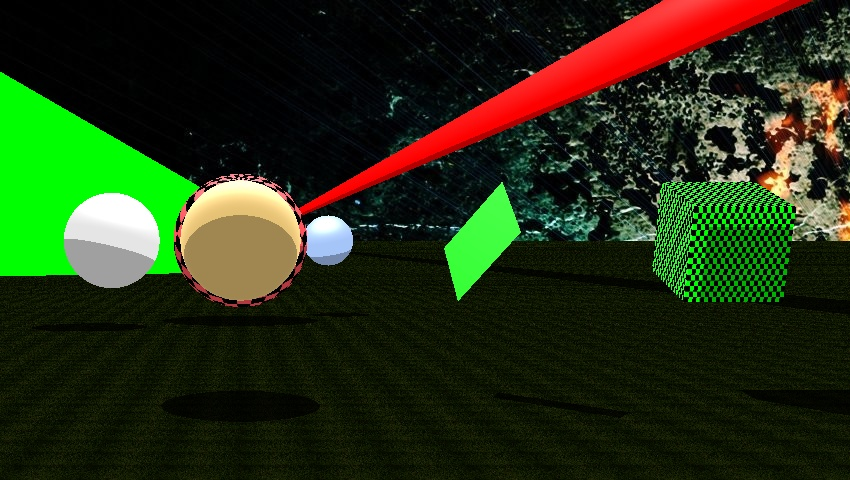
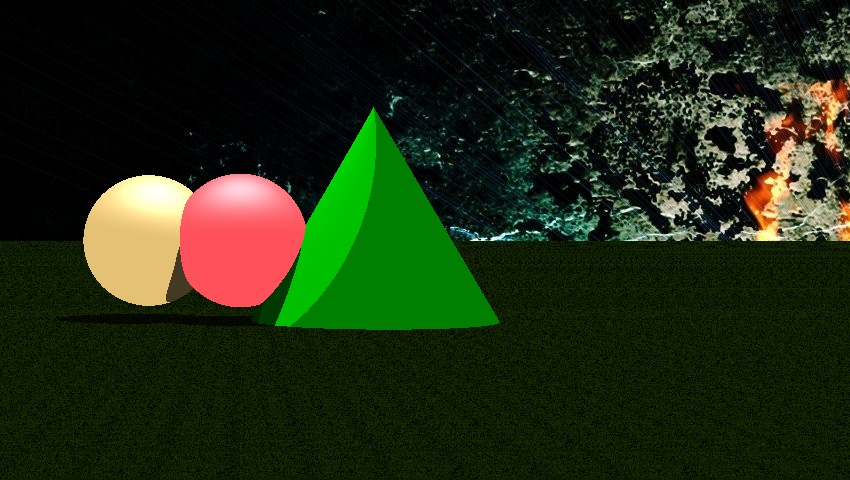
fix triangle + cone ok

diff --git a/Raytracing/Raytracing/Tracer.cpp b/Raytracing/Raytracing/Tracer.cpp
@@ -31,7 +31,7 @@ void Tracer::render(Scene scene) {
     const float gamma = 1.f / 2.2f;
 
     unsigned width = 850, height = 480;
-    //unsigned width = 1920, height = 1080;
+    //unsigned width = 2546, height = 1440;
     cv::Mat mat = cv::Mat::ones(height, width, CV_8UC3);
     Color pixelColor;
     Color* image = new Color[width * height], * pixel = image;
@@ -82,7 +82,7 @@ void Tracer::render(Scene scene) {
 
 Color Tracer::getImpactColor(Ray& ray, Object* obj, Point& impact, Scene& scene) {
 
-   Material m = obj->getMaterial(impact);
+   Material m = obj->getMaterial();
     Color amb = m.ambiant.mul(scene.getAmbiant());
 
     Color diff = Color();
@@ -94,20 +94,21 @@ Color Tracer::getImpactColor(Ray& ray, Object* obj, Point& impact, Scene& scene)
     /*Color res(normale.vector[0], normale.vector[1], normale.vector[2]);
     return res;*/
 
-    for (int i = 0; i < nbLights; i++) {
-        Ray l = scene.getLight(i).getRayToLight(impact);
-        angle = (l.vector.dot(normale.vector) / (l.vector.norm() * normale.vector.norm()));
-        Vector v = l.vector - 2 * (l.vector.dot(normale.vector) * normale.vector);
-        angle2 = (v.dot(ray.vector)) / (v.norm() * ray.vector.norm());
-        if (angle > 0) {
-            diff += m.diffuse.mul(scene.getLight(i).id) * angle;
+        for (int i = 0; i < nbLights; i++) {
+            Ray l = scene.getLight(i).getRayToLight(impact);
+            angle = (l.vector.dot(normale.vector) / (l.vector.norm() * normale.vector.norm()));
+            Vector v = l.vector - 2 * (l.vector.dot(normale.vector) * normale.vector);
+            angle2 = (v.dot(ray.vector)) / (v.norm() * ray.vector.norm());
+            if (angle > 0) {
+                diff += m.diffuse.mul(scene.getLight(i).id) * angle;
+            }
+            if (angle2 > 0) {
+                spec += m.specular.mul(scene.getLight(i).is) * pow(angle2, m.shininess);
+            }
         }
-        if (angle2 > 0) {
-            spec += m.specular.mul(scene.getLight(i).is) * pow(angle2, m.shininess);
-        }
-    }
-    Color Phong = diff + amb + spec;
-    return Phong;
+        Color Phong = diff + amb + spec;
+        return Phong;
+
     /*Material m = obj->getMaterial(impact);
     Ray normal = obj->getNormal(impact, ray.origin);
     Color c = m.ambiant.mul(scene.getAmbiant());
@@ -173,7 +174,7 @@ Color Tracer::trace(Ray ray, Scene scene, int depth)
                 float t0, t1;
                 if (obj[j]->intersect(lv, impact2, t0, t1)) {
                     if (obj[j] == object) {
-                        transmission = Color(0.7, 0.7, 0.7); 
+                        //transmission = Color(0.7, 0.7, 0.7); 
                     }
                     else {
                         transmission = Color(0.3, 0.3, 0.3);

diff --git a/Raytracing/Raytracing/Main.cpp b/Raytracing/Raytracing/Main.cpp
@@ -266,10 +266,12 @@ int main(int argc, char** argv)
     sphere.material.diffuse = Color(0.25, 0.25, 0.25);
     sphere.material.specular = Color(0.75, 0.75, 0.75);
     sphere.material.shininess = 3;
-    sphere.Texture = cv::imread("damier.jpg");
+    sphere.material.transparency = 0.5;
+    sphere.material.reflection = 1;
+    //sphere.Texture = cv::imread("Grass_01.jpg");
 
-    sphere2.translate(0, 0, 10);
-    sphere2.scale(0.8);
+    sphere2.translate(3.5, 0, 31);
+    sphere2.scale(0.4);
     sphere2.material.diffuse = Color(0.25, 0.25, 0.25);
     sphere2.material.specular = Color(0.75, 0.75, 0.75);
     sphere2.material.shininess = 3;
@@ -296,7 +298,7 @@ int main(int argc, char** argv)
 
     Cube cube(Color(0,1,0));
     cube.translate(-10, 0, 10);
-    cube.Texture = cv::imread("damier.jpg");
+    cube.Texture = cv::imread("grass_02.jpg");
     cube.rotateX(0.3);
     //cube.rotateY(30);
     //cube.rotateZ(40
@@ -316,8 +318,9 @@ int main(int argc, char** argv)
     carre.rotateY(1);
 
 
-    Cone cone(Color(0, 1, 0));
-    cone.translate(-5, 0, 100);
+    Cone cone(Color(0, 0.5, 0));
+    cone.translate(-5, 5, 30);
+    cone.rotateZ(1.5708);
     cone.rotateZ(1.5708);
     //cone.rotateY(-1.5708);
     cube.material.diffuse = Color(0.25, 0.25, 0.25);
@@ -340,19 +343,19 @@ int main(int argc, char** argv)
     //Plan plan(Color(1,1,1));
     plan.translate(0, -3, 0);
     plan.rotateX(1.5708);
-    plan.normale = Vector(0, 1, 0);
+    plan.normale = Vector(1, 1, 1);
     plan.material.diffuse = Color(0, 0, 0);
     plan.material.specular = Color(0, 0, 0);
-    plan.Texture = cv::imread("Grass_01.jpg");
-    scene.addObject(&carre);
+    plan.Texture = cv::imread("grass_02.jpg");
+    //scene.addObject(&carre);
     //scene.addObject(&triangle);
     scene.addObject(&sphere);
     scene.addObject(&sphere2);
-    scene.addObject(&sphere3);
-    scene.addObject(&sphere4);
+    //scene.addObject(&sphere3);
+    //scene.addObject(&sphere4);
     scene.addObject(&cone);
-    scene.addObject(&cylindre);
-    scene.addObject(&cube);
+    //scene.addObject(&cylindre);
+    //scene.addObject(&cube);
     
     
     scene.addObject(&plan);

diff --git a/Raytracing/Raytracing/Cone.cpp b/Raytracing/Raytracing/Cone.cpp
@@ -1,6 +1,8 @@
 #include "Cone.hpp"
 #include <math.h> 
 #define INFINITY 1e8
+#define M_PI 3.141592653589793
+#define M_PI_2 3.141592653589793 / 2
 
 Cone::Cone() : Object::Object()
 {
@@ -9,7 +11,7 @@ Cone::Cone() : Object::Object()
 
 Cone::Cone(Color color)
 {
-	this->material = Material(color, color, color, 0);
+	this->material = Material(color, color, color, 0, 0, 0);
 
 }
 
@@ -35,13 +37,12 @@ Ray Cone::getNormal(const Point& impact, const Point& observator) {
     float y = 0.523599 / INFINITY;
     float z = lp[2] * (INFINITY / 0.523599);
     //Ray res(lp, Vector(lp[0], lp[1], sin(0.523599)));
-    /*Vector v = Vector(0, -1, 0);
-    Vector cp = Vector(lp[0], lp[1], lp[3]);
-    Vector n = cp * v.dot(cp) / cp.dot(cp) - v;*/
+    //Vector v = Vector(0, -1, 0);
+    //Vector cp = Vector(lp[0], lp[1], lp[3]);
+    //Vector n = cp * v.dot(cp) / cp.dot(cp) - v;
 
     Ray res(lp, Vector(x, y, z));
-    //Ray res(lp, n);
-
+    
     res = localToGlobal(res);
     res.normalized();
     return res;

diff --git a/Raytracing/Raytracing/Material.cpp b/Raytracing/Raytracing/Material.cpp
@@ -6,13 +6,17 @@ Material::Material()
 	this->diffuse = Color();
 	this->specular = Color();
 	this->shininess = 0.;
+	this->reflection = 0.;
+	this->transparency = 0.;
 
 }
 
-Material::Material(Color ambiant, Color diffuse, Color specular, float shininess)
+Material::Material(Color ambiant, Color diffuse, Color specular, float shininess, float reflection, float transparency)
 {
 	this->ambiant = ambiant;
 	this->diffuse = diffuse;
 	this->specular = specular;
 	this->shininess = shininess;
+	this->reflection = reflection;
+	this->transparency = transparency;
 }

diff --git a/Raytracing/Raytracing/Material.hpp b/Raytracing/Raytracing/Material.hpp
@@ -5,9 +5,10 @@ class Material
 {
 public:
 	Color ambiant, diffuse, specular;
-	float shininess;
+	float shininess, transparency, reflection;
+
 	Material();
-	Material(Color ambiant, Color diffuse, Color specular, float shininess);
+	Material(Color ambiant, Color diffuse, Color specular, float shininess, float reflection, float transparency);
 
 private:
 

diff --git a/Raytracing/Raytracing/CylindreInfini.cpp b/Raytracing/Raytracing/CylindreInfini.cpp
@@ -7,7 +7,7 @@ CylindreInfini::CylindreInfini() : Object::Object()
 
 CylindreInfini::CylindreInfini(Color color)
 {
-	this->material = Material(color, color, color, 0);
+	this->material = Material(color, color, color, 0, 0, 0);
 	this->position = Point(position);
 }
 

diff --git a/Raytracing/Raytracing/Object.hpp b/Raytracing/Raytracing/Object.hpp
@@ -13,7 +13,7 @@ public:
 	Object();
 
 	//Point getTextureCoordinates(const Point& p)const;
-	Material getMaterial(const Point& p)const;
+	Material getMaterial()const;
 	virtual Point getTextureCoordinates(const Point& p) {
 		return Point(0, 0, 0);
 

diff --git a/Raytracing/Raytracing/Sphere.cpp b/Raytracing/Raytracing/Sphere.cpp
@@ -7,7 +7,7 @@ Sphere::Sphere() : Object::Object()
 
 Sphere::Sphere(Color color)
 {
-	this->material = Material(color, color, color, 0);
+	this->material = Material(color, color, color, 0, 0, 0);
 
 }
 

diff --git a/Raytracing/Raytracing/Carre.cpp b/Raytracing/Raytracing/Carre.cpp
@@ -8,7 +8,7 @@ Carre::Carre() : Object::Object()
 Carre::Carre(Color color)
 {
 
-	this->material = Material(color, color, color, 0);
+	this->material = Material(color, color, color, 0, 0, 0);
 
 }
 

diff --git a/Raytracing/Raytracing/Cube.cpp b/Raytracing/Raytracing/Cube.cpp
@@ -7,7 +7,7 @@ Cube::Cube() : Object::Object()
 
 Cube::Cube(Color color)
 {
-	this->material = Material(color, color, color, 0);
+	this->material = Material(color, color, color, 0, 0, 0);
 
 }
 

diff --git a/Raytracing/Raytracing/Plan.cpp b/Raytracing/Raytracing/Plan.cpp
@@ -7,7 +7,7 @@ Plan::Plan() : Object::Object()
 
 Plan::Plan(Color color)
 {
-	this->material = Material(color, color, color, 0);
+	this->material = Material(color, color, color, 0, 0, 0);
 
 }
 
